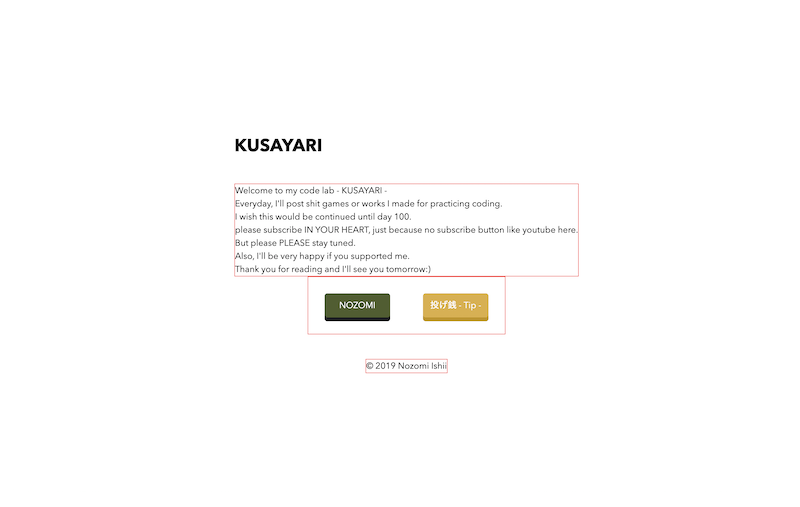
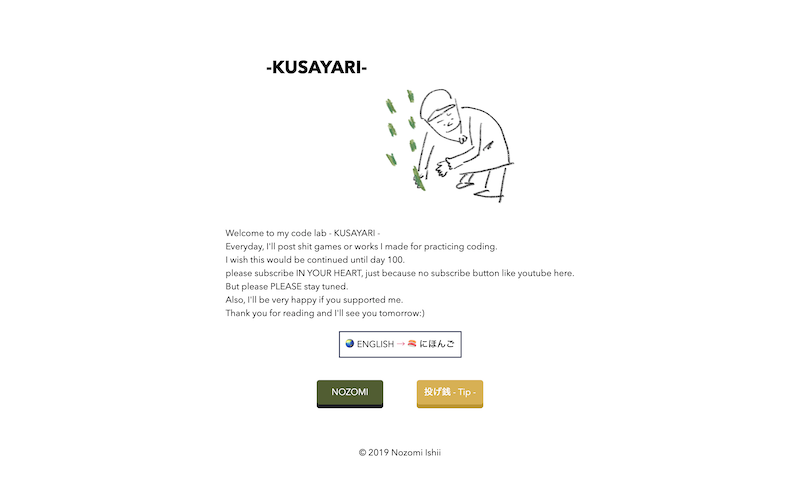
ready for lounch kusakari!!!

diff --git a/app/assets/stylesheets/home.scss b/app/assets/stylesheets/home.scss
@@ -129,6 +129,7 @@ header {
 
 /* lab ================================ */
 .lab{
+  padding-bottom: 100px;
   .title{
     min-height: 40vh;
     display: flex;
@@ -149,7 +150,6 @@ header {
     // border: 1px solid red;
     justify-content:center;
     align-items: flex-start;
-    height: 50vh;
     paddging:20px;
     .code{
       display:flex;

diff --git a/app/assets/stylesheets/responsive.scss b/app/assets/stylesheets/responsive.scss
@@ -90,8 +90,7 @@ a {
     .codes{
       display: flex;
       flex-direction:column;
-      border: 1px solid red;
-      min-height: 200vh;
+      // border: 1px solid red;
       width: 100vw;
       paddging: 0;
       .code {
